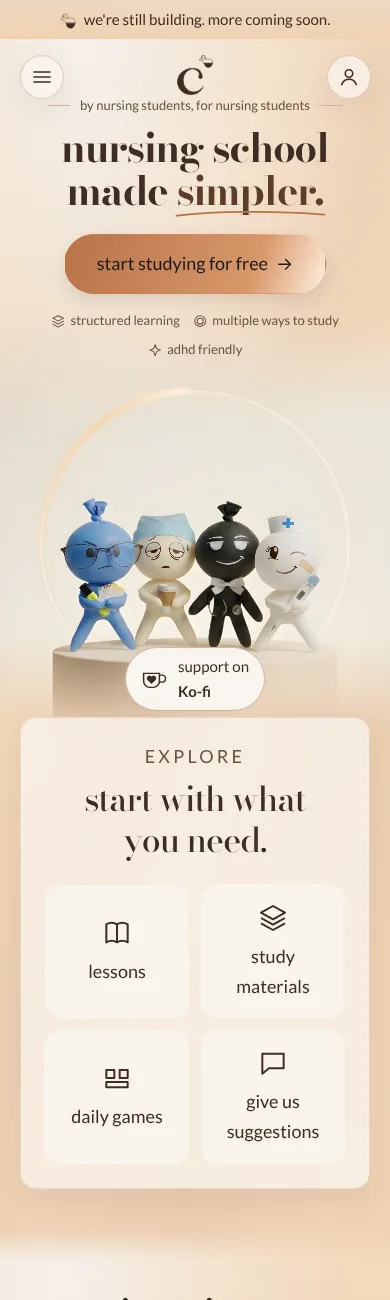
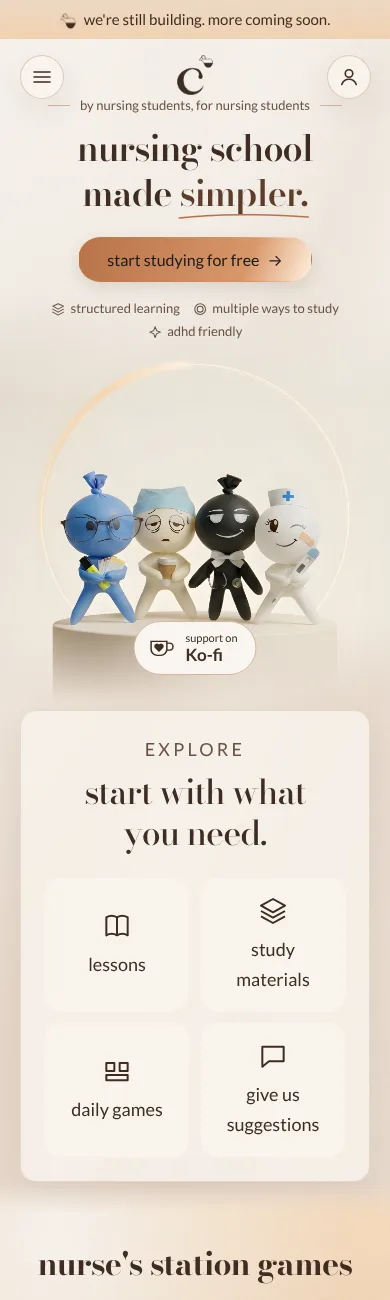
Home v3 hero: close the board differences (Ko-fi pill, phone stage, headline, gaps, background)
- Ko-fi pill sized as the board (11 / 17 px lines, 52 px high) and kept above the dock on phones
- phone stage taller by the dock overlap; landscape button, stage and points placed as the 844 board
- headline 600 weight and sized to the board's line length at 1440, 844 and 390
- start button 16 px label, 45 px high as on the boards
- dock overlaps the stage by the board's 92 px (token), landscape stays a normal block; space under the hero follows the board
- hero scene drops the Copper Glow wash (greyer, lighter hero); other home scenes unchanged
- home-modern: assert the designed 92 px overlap instead of -8..2 px
- proofs retaken

Claude-Session: https://claude.ai/code/session_01V8pHm5xDFd3PCqqXThexqv

diff --git a/src/styles/tokens.css b/src/styles/tokens.css
@@ -1087,6 +1087,20 @@
   --play-hub-stats-reserve: 34rem;      /* the stats panel at every width (at least 550 px) */
 }
 
+/* The explore dock overlaps the bottom of the stage by the board's margin-top of -92 px (docs/design/home-v3, nav margin -92 px
+   under the stage) on desktop, tablet and phone portrait; phone landscape has it as a normal block under the points. */
+.scene-hero {
+  --stage-dock-overlap: 5.75rem;
+  --silk-wash-alpha: 0;      /* the board's hero is a lighter, greyer beige: no Copper Glow wash on this scene (the other home scenes keep theirs) */
+  --stage-bottom-gap: 0px;   /* space under the dock: the next section brings its own top padding, so desktop adds none */
+}
+@media (width < 40rem) {
+  .scene-hero { --stage-bottom-gap: var(--spacing-section-phone); } /* board: about 63 px from the dock to the next heading */
+}
+@media (orientation: landscape) and (40rem <= width < 60rem) and (height < 32rem) {
+  .scene-hero { --stage-dock-overlap: 0px; }
+}
+
 /* Approved Home v3 camera crop and layout, from the 1440 and 390 boards. */
 .home-stage {
   --stage-heading-width: none;
@@ -1097,9 +1111,17 @@
   --stage-point-row-gap: .6em;
   --stage-point-column-gap: 1em;
   --stage-icon-gap: .4em;
-  --stage-tip-padding: .4em 1em;
   --stage-eyebrow-rule: 3rem;
-  --stage-heading-size: clamp(2.5rem, 5vw, 4.125rem);
+  --stage-heading-size: clamp(2.25rem, 4.5vw, 3.7rem); /* board: 66 px in a lighter serif; Bodoni Moda at 700 is wider, so this size gives the board's line length (772 px at 1440) */
+  --stage-heading-weight: 600;
+  --stage-heading-leading: 1.08;
+  --stage-button-leading: 1.5;
+  --stage-button-size: 1rem;   /* board: 16 px label, a 45 px high button (the shared button is 60 px) */
+  --stage-button-padding: calc(var(--spacing) * 2.4) calc(var(--spacing) * 7);
+  --stage-tip-small: .6875rem;             /* board: "support on" 11 px over "Ko-fi" 17 px, a 52 px high pill */
+  --stage-tip-name: 1.0625rem;
+  --stage-tip-leading: 1.12;
+  --stage-tip-padding: .625rem 1.125rem .625rem .875rem;
   --stage-action-margin: clamp(2.375rem, 5.75vw, 5.25rem) auto 2.375rem;
   --stage-width: min(100%, 60rem);
   --stage-margin: 2.25rem auto 0;
@@ -1116,6 +1138,7 @@
   --stage-tip-icon: 1.75rem;
   --stage-hairline: 1px;
   --stage-points-size: var(--text-sm);
+  --stage-points-row-gap: .6em;
   --stage-points-width: none;
   --stage-points-margin: 0 auto;
 }
@@ -1123,20 +1146,23 @@
 @media (width < 40rem) {
   .home-stage {
     --stage-heading-width: 20.625rem;
+    --stage-heading-size: 2.25rem;
+    --stage-heading-leading: 1.25;  /* board: lines 45 px apart */
     --stage-eyebrow-size: .8125rem;
     --stage-eyebrow-rule: 1.375rem;
     --stage-action-margin: 1.375rem auto 1rem;
     --stage-points-size: .8125rem;
     --stage-points-width: 20rem;
+    --stage-points-row-gap: .1em;   /* board: the two rows of points are 21 px apart */
     --stage-margin: .25rem auto 0;
-    --stage-height: 22rem;
+    --stage-height: 28.45rem;  /* the board's stage plus the part the dock overlaps */
     --stage-photo-width: 47.5rem;
-    --stage-photo-top: -2.75rem;
+    --stage-photo-top: -3.25rem;
     --stage-photo-mask: linear-gradient(transparent, currentColor 24%, currentColor 74%, transparent 96%);
-    --stage-halo-top: 11.25rem;
+    --stage-halo-top: 10.75rem;  /* centred on the ring painted in the photo, so the travelling light follows it */
     --stage-halo-width: 20rem;
     --stage-tip-top: auto;
-    --stage-tip-bottom: .375rem;
+    --stage-tip-bottom: calc(var(--stage-dock-overlap) + 2.1875rem);  /* above the dock, as on the board */
     --stage-tip-left: 50%;
     --stage-tip-offset: translateX(-50%);
   }
@@ -1145,20 +1171,20 @@
 /* The landscape phone board is the centred desktop composition at about 60% scale: the button sits inside the top of the ring and the points under the pedestal. */
 @media (orientation: landscape) and (40rem <= width < 60rem) and (height < 32rem) {
   .home-stage {
-    --stage-heading-size: 3rem;
+    --stage-heading-size: 2.6875rem;
     --stage-heading-gap: 1.25rem;
     --stage-eyebrow-size: .875rem;
     --stage-eyebrow-rule: 2.25rem;
-    --stage-action-margin: 3rem auto 0;
+    --stage-action-margin: 3.9375rem auto 0;
     --stage-margin: -10.25rem auto 0;
     --stage-points-margin: 1.25rem auto 1.75rem;
     --stage-width: min(100%, 36rem);
-    --stage-height: 26.3rem;
+    --stage-height: 27.9rem;
     --stage-photo-width: 56.5rem;
-    --stage-photo-top: -1rem;
-    --stage-halo-top: 15.7rem;
+    --stage-photo-top: -.5rem;
+    --stage-halo-top: 16.2rem;
     --stage-halo-width: 22.625rem;
-    --stage-tip-top: 13.2rem;
+    --stage-tip-top: 14.75rem;
     --stage-tip-left: max(-10%, calc((100% - 100vw) / 2 + var(--spacing-gutter)));
   }
 

diff --git a/tests/e2e/home-modern.spec.ts b/tests/e2e/home-modern.spec.ts
@@ -116,15 +116,27 @@ for (const size of [
       await expect(page.locator('.hero-accent')).toHaveCSS('animation-name', 'none');
     });
 
-    test('keeps the explore dock immediately after the illustrated stage', async ({ page }) => {
+    test('overlaps the explore dock onto the bottom of the illustrated stage by the designed amount', async ({ page }) => {
       await page.goto('/');
-      const gap = await page.evaluate(() => {
+      const overlap = await page.evaluate(() => {
         const stage = document.querySelector('.stage-scene')!.getBoundingClientRect();
         const dock = document.querySelector('nav[aria-labelledby="explore-heading"]')!.getBoundingClientRect();
-        return dock.top - stage.bottom;
+        return stage.bottom - dock.top;
       });
-      expect(gap).toBeGreaterThanOrEqual(-8);
-      expect(gap).toBeLessThanOrEqual(2);
+      // Intentional design value, not a rounding allowance: on the approved boards (docs/design/home-v3) the dock is a
+      // frosted panel pulled up 92 px over the stage (the board's nav margin-top: -92px). Desktop, tablet and phone
+      // portrait share it; phone landscape is a normal block and has its own test below.
+      expect(Math.abs(overlap - 92)).toBeLessThanOrEqual(1);
+    });
+
+    test('keeps the Ko-fi pill above the dock (not covered by the overlap)', async ({ page }) => {
+      await page.goto('/');
+      const clear = await page.evaluate(() => {
+        const tip = document.querySelector('.stage-tip')!.getBoundingClientRect();
+        const dock = document.querySelector('nav[aria-labelledby="explore-heading"]')!.getBoundingClientRect();
+        return { tipBottom: tip.bottom, dockTop: dock.top, sameColumn: tip.right > dock.left && tip.left < dock.right };
+      });
+      if (clear.sameColumn) expect(clear.tipBottom).toBeLessThanOrEqual(clear.dockTop);
     });
 
     test('has accessible sections and comfortable hero-link targets', async ({ page }) => {
@@ -161,6 +173,16 @@ test.describe('home hero in landscape on a phone', () => {
     }
     const ours = seen.filter((id) => id === 'hero-start' || id === 'hero-support' || id === 'explore-lessons');
     expect(ours).toEqual(['hero-start', 'hero-support', 'explore-lessons']);
+  });
+
+  test('keeps the explore dock a normal block under the points, with no overlap (docs/design/home-v3 landscape board)', async ({ page }) => {
+    await page.goto('/');
+    const gap = await page.evaluate(() => {
+      const points = document.querySelector('.stage-points')!.getBoundingClientRect();
+      const dock = document.querySelector('nav[aria-labelledby="explore-heading"]')!.getBoundingClientRect();
+      return dock.top - points.bottom;
+    });
+    expect(gap).toBeGreaterThanOrEqual(0);
   });
 });
 

diff --git a/docs/status/in-review/task-home-v3-hero-stage.md b/docs/status/in-review/task-home-v3-hero-stage.md
@@ -1,4 +1,4 @@
-status: in review · task-home-v3/hero-stage-lane · Home v3 hero: stage photo, halo, headline, start button, points and Ko-fi pill, matching the 1440, 390 and 844 boards in Light and Evening (landscape: button inside the top of the ring, points under the pedestal).
+status: in review · task-home-v3/hero-stage-lane · Home v3 hero: stage photo, halo, headline, start button, points and Ko-fi pill, matching the 1440, 390 and 844 boards in Light and Evening (landscape: button inside the top of the ring, points under the pedestal); board-difference pass: Ko-fi pill and button sized as the boards, lighter headline, taller phone stage, dock overlap 92 px, hero-only background without the peach wash.
 decision: D-pending — board Playfair Display becomes self-hosted Bodoni Moda for the headline.
 decision: D-pending — board italic eyebrow becomes plain upright self-hosted Lato.
 decision: D-pending — text, copper, borders and light all use the nearest existing Daytime/Evening brand tokens; the accent letters use solid ink (no text stroke, which failed the 3:1 check on Bodoni's thin strokes) and the halo carries the travelling light.
